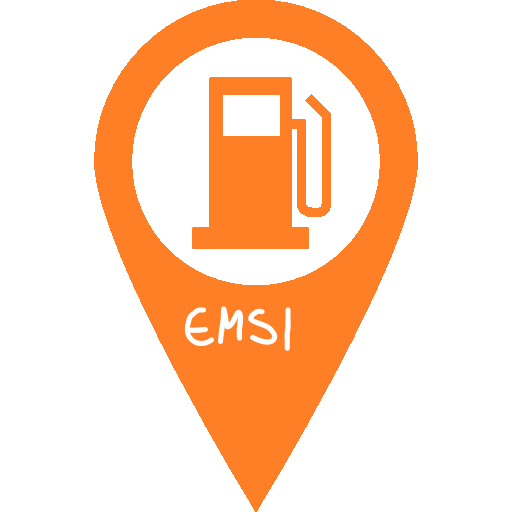
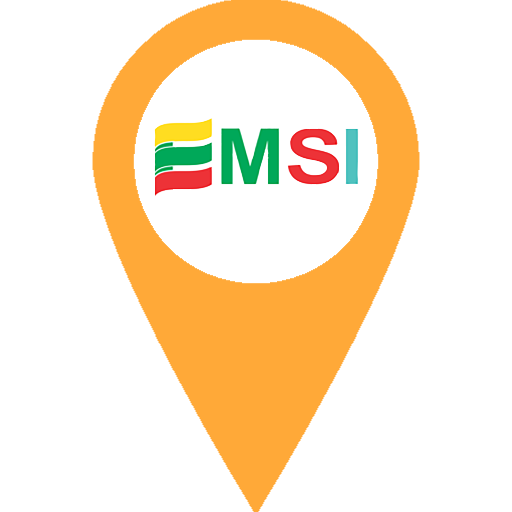
When even more updated (#87)
* added_datetime_variable

* Updated GasStation icons

* Added support for alausa

* Added custom markers for most GasStations

diff --git a/Degano/Views/SettingsPage.xaml b/Degano/Views/SettingsPage.xaml
@@ -11,19 +11,22 @@
 
             <Button
             x:Name="MyAccountButton"
+            FontAttributes="Bold"
             HeightRequest="45"
             Text="My account"
             Clicked="OnMyAccount"/>
 
             <Button
             x:Name="ManageCardsButton"
+            FontAttributes="Bold"
             HeightRequest="45"
             Text="Manage cards"
             Clicked="OnManageCards"/>
 
             <Button
             x:Name="ToggleFilterByBrands"
-            HeightRequest="40"
+            FontAttributes="Bold"
+            HeightRequest="45"
             Text="Open filter by brands"
             Clicked="OnFilterByBrandsTapped"/>
 
@@ -40,7 +43,8 @@
 
             <Button
             x:Name="ToggleDistanceSlider"
-            HeightRequest="40"
+            FontAttributes="Bold"
+            HeightRequest="45"
             Text="Open search range"
             Clicked="OnToggleDistanceSliderTapped"/>
             
@@ -61,7 +65,8 @@
 
             <Button
             x:Name="ToggleFuelType"
-            HeightRequest="40"
+            FontAttributes="Bold"
+            HeightRequest="45"
             Text="Open fuel type selection"
             Clicked="OnToggleFuelTypeTapped"/>
 

diff --git a/Degano/Views/MainPage.xaml b/Degano/Views/MainPage.xaml
@@ -52,7 +52,7 @@
             Clicked="OnINeedGasClick"
             Grid.Row="3" 
             Grid.ColumnSpan="3" 
-            BackgroundColor="Red" 
+            BackgroundColor="#FF4500" 
             Text="⚠ I Need Gas! ⚠" 
             WidthRequest="300" 
             HeightRequest="50">

diff --git a/Degano/Handlers/MapHandler.Android.cs b/Degano/Handlers/MapHandler.Android.cs
@@ -152,9 +152,12 @@ namespace Degano.Handlers
             marker.SetPosition(new LatLng(g.location.lat, g.location.lng));
             marker.SetTitle(g.name);
 
-            if (GasStationResources.ContainsKey(g.type.ToLower()))
+            var type = g.type;
+            type = type.Replace("š", "s");
+
+            if (GasStationResources.ContainsKey(type.ToLower()))
             {
-                marker.SetIcon(BitmapDescriptorFactory.FromBitmap(GasStationResources[g.type.ToLower()]));
+                marker.SetIcon(BitmapDescriptorFactory.FromBitmap(GasStationResources[type.ToLower()]));
             }
             else
             {
@@ -236,7 +239,7 @@ namespace Degano.Handlers
             {
                 var imgSrc = ImageSource.FromResource("Degano.Resources.Images.gasstationdefault.png");
                 var _bitmap = await new ImageLoaderSourceHandler().LoadImageAsync(imgSrc, Android.App.Application.Context, CancellationToken.None);
-                GasStation_Default = Bitmap.CreateScaledBitmap(_bitmap, 130, 130, true);
+                GasStation_Default = Bitmap.CreateScaledBitmap(_bitmap, 150, 150, true);
 
                 var assembly = Assembly.GetExecutingAssembly();
                 foreach (var name in assembly.GetManifestResourceNames())
@@ -247,7 +250,7 @@ namespace Degano.Handlers
 
                         imgSrc = ImageSource.FromResource(name);
                         _bitmap = await new ImageLoaderSourceHandler().LoadImageAsync(imgSrc, Android.App.Application.Context, CancellationToken.None);
-                        GasStationResources.Add(gasStationName.Remove(gasStationName.IndexOf('.')), Bitmap.CreateScaledBitmap(_bitmap, 130, 130, true));
+                        GasStationResources.Add(gasStationName.Remove(gasStationName.IndexOf('.')), Bitmap.CreateScaledBitmap(_bitmap, 150, 150, true));
                     }
                 }
             }
@@ -266,6 +269,7 @@ namespace Degano.Handlers
             var _infoWindowAdapter = new InfoWindowAdapter(this);
             Map.SetInfoWindowAdapter(_infoWindowAdapter);
             Map.SetOnInfoWindowClickListener(_infoWindowAdapter);
+            Map.UiSettings.MapToolbarEnabled = false;
             var R = Android.App.Application.Context;
             Map.SetMapStyle(MapStyleOptions.LoadRawResourceStyle(R, Resource.Raw.map_style));
 
@@ -343,6 +347,24 @@ namespace Degano.Handlers
             }
             else
                 viewText.Text += "err: distance not available";
+
+            viewText = (TextView)view.FindViewById(Resource.Id.db_last_updated);
+            viewText.Text = "Last Updated: ";
+            if (GasStation.lastUpdated != -1)
+                if(GasStation.lastUpdated < 1)
+                {
+                    viewText.Text += "<1h ago";
+                }
+                else if(GasStation.lastUpdated >= 24)
+                {
+                    viewText.Text += (GasStation.lastUpdated / 24).ToString() + "d ago";
+                }
+                else
+                {
+                    viewText.Text += GasStation.lastUpdated.ToString() + "h ago";
+                }
+            else
+                viewText.Text += "unknown".PadLeft(24 - viewText.Text.Length);
 
             return view;
         }

diff --git a/Degano/Views/MainPage.xaml.cs b/Degano/Views/MainPage.xaml.cs
@@ -14,6 +14,7 @@ namespace Degano.Views
         private static MainPage mainPage;
         public delegate void INeedGasToggleHandler();
         SettingsPage settingsPage;
+
         public MainPage(SettingsPage _settingsPage)
         {
             InitializeComponent();
@@ -128,6 +129,20 @@ namespace Degano.Views
                 GasStation.gasStationList.GroupBy(g => g.type).Select(g => g.First()).ToList().ForEach(g => GasStation.selectedGasStations.TryAdd(g.type, true));
 
                 await UpdateShownGasStations();
+
+                response = await client.GetAsync("Updated/Datetime");
+                string updated = response.Body.ToString();
+                updated = updated.Replace("\"", "");
+                var updatedTimes = updated.Split(" ");
+
+                DateTime updatedDate = new DateTime(int.Parse(updatedTimes[0]),
+                                                    int.Parse(updatedTimes[1]),
+                                                    int.Parse(updatedTimes[2]),
+                                                    int.Parse(updatedTimes[3]),
+                                                    int.Parse(updatedTimes[4]),
+                                                    int.Parse(updatedTimes[5]));
+
+                GasStation.lastUpdated = (DateTime.Now - updatedDate).Hours;
             }
             catch (Exception ex)
             {
@@ -207,7 +222,7 @@ namespace Degano.Views
         {
             if (status)
             {
-                mainPage.GasButton.BackgroundColor = Colors.Red;
+                mainPage.GasButton.BackgroundColor = Color.FromRgba("FF4500");
                 mainPage.GasButton.IsEnabled = true;
             }
             else

diff --git a/Degano/GasStation.cs b/Degano/GasStation.cs
@@ -12,6 +12,7 @@ namespace Degano
         public static List<GasStation> enabledGasStationList = new List<GasStation>();
         public static SortedDictionary<string, bool> selectedGasStations = new SortedDictionary<string, bool>();
         public static string selectedType = "95";
+        public static int lastUpdated = -1;
 
         public static SortedDictionary<string, FuelType> discounts = new SortedDictionary<string, FuelType>();
 
